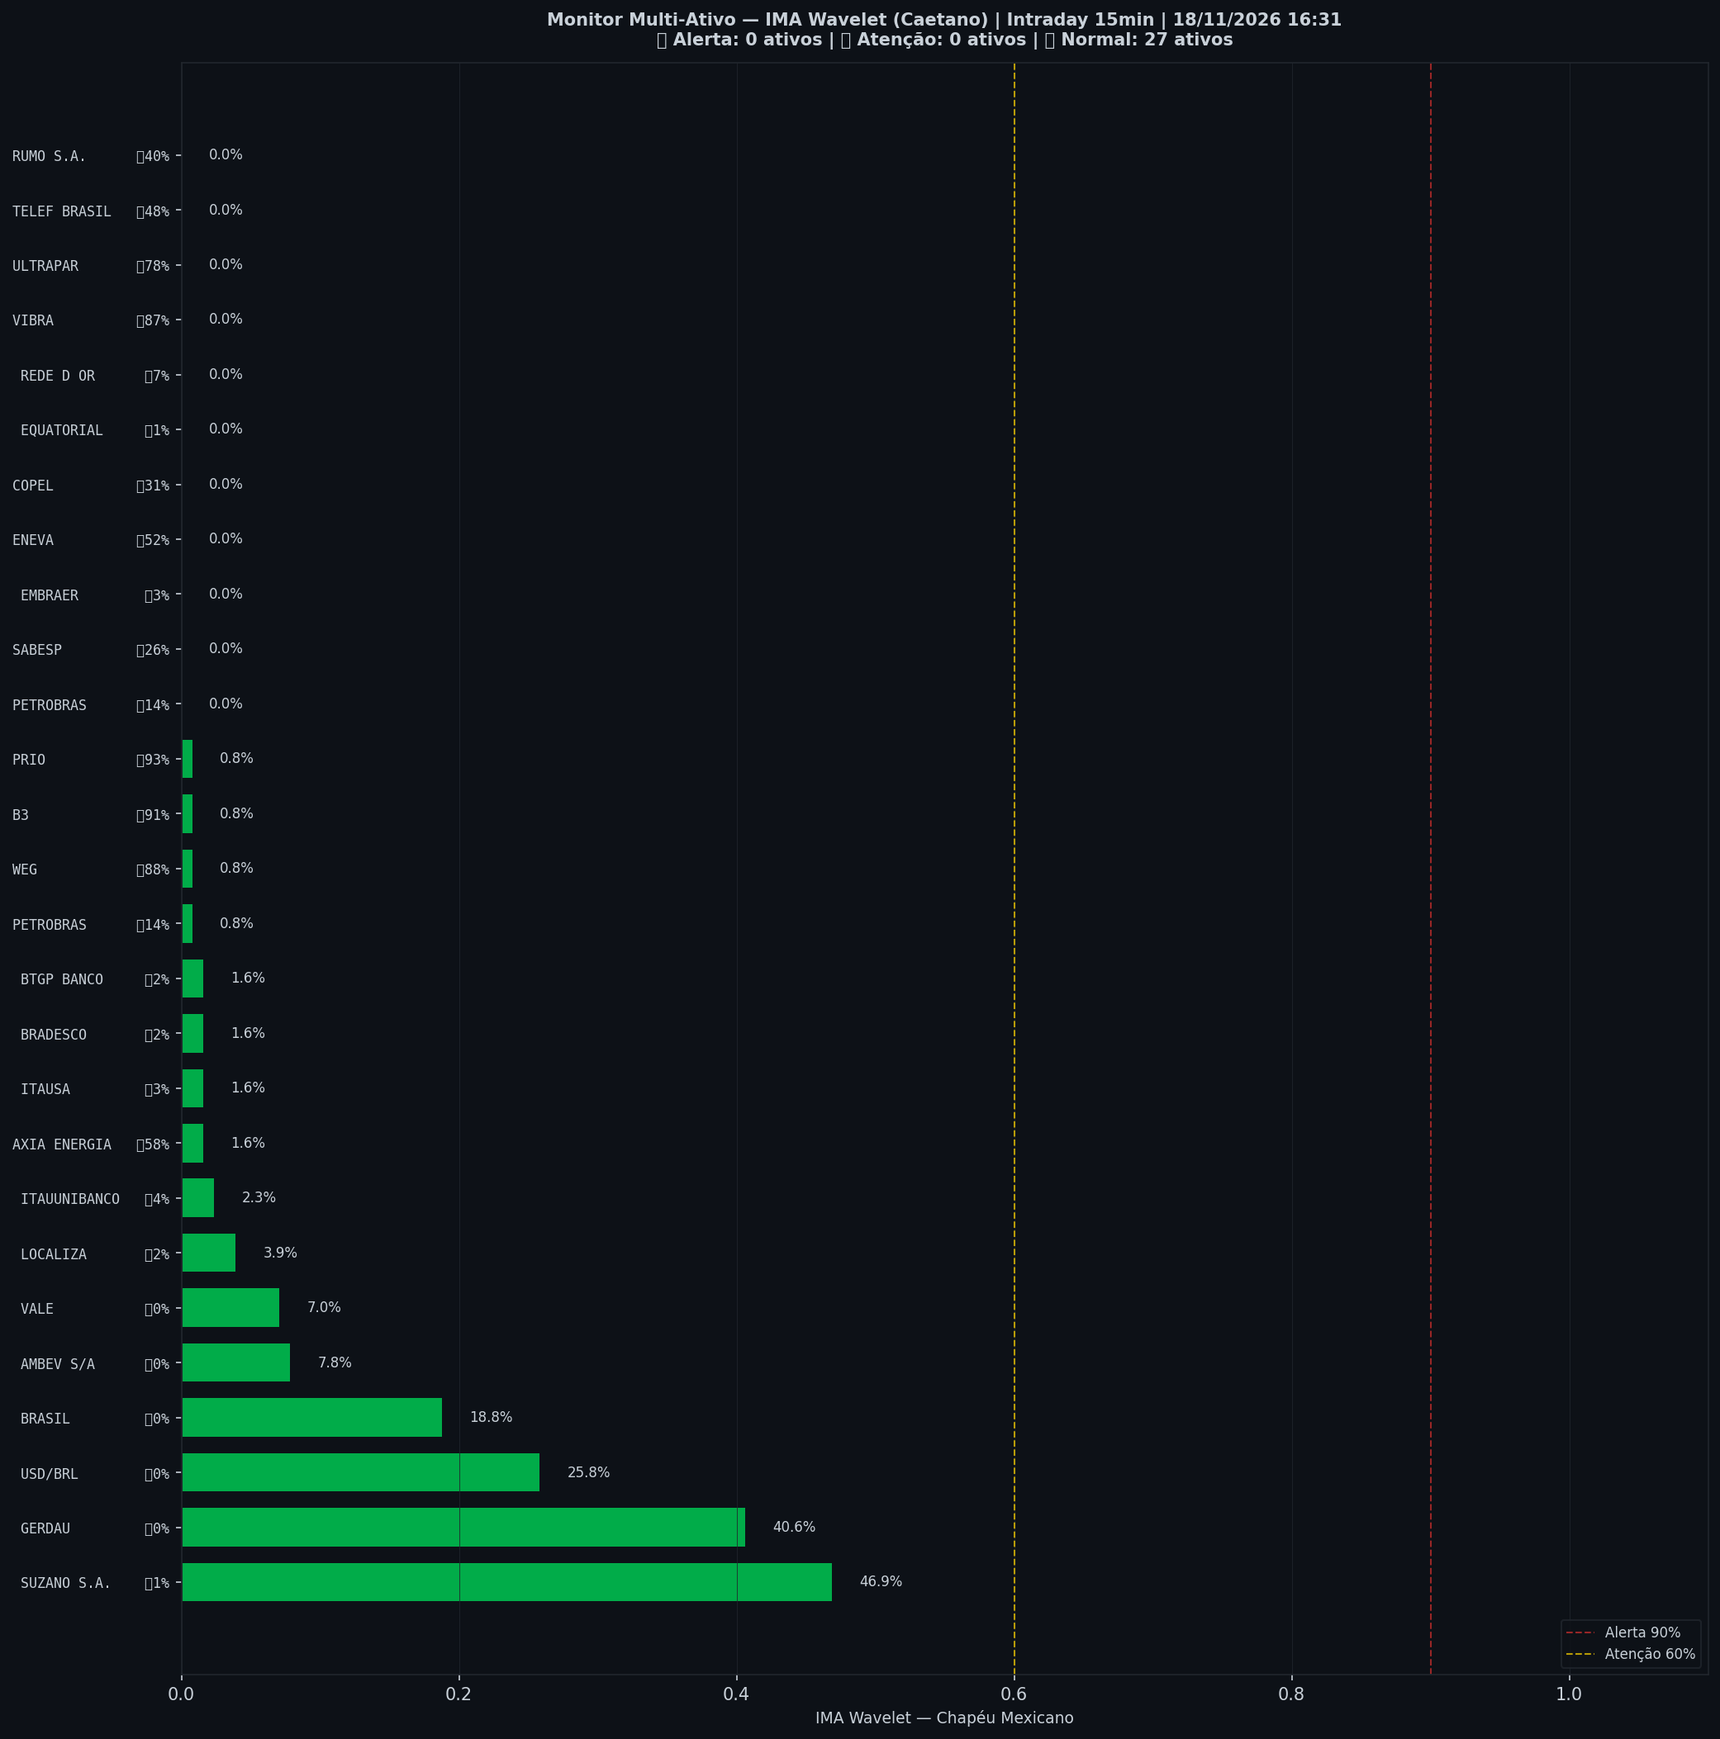
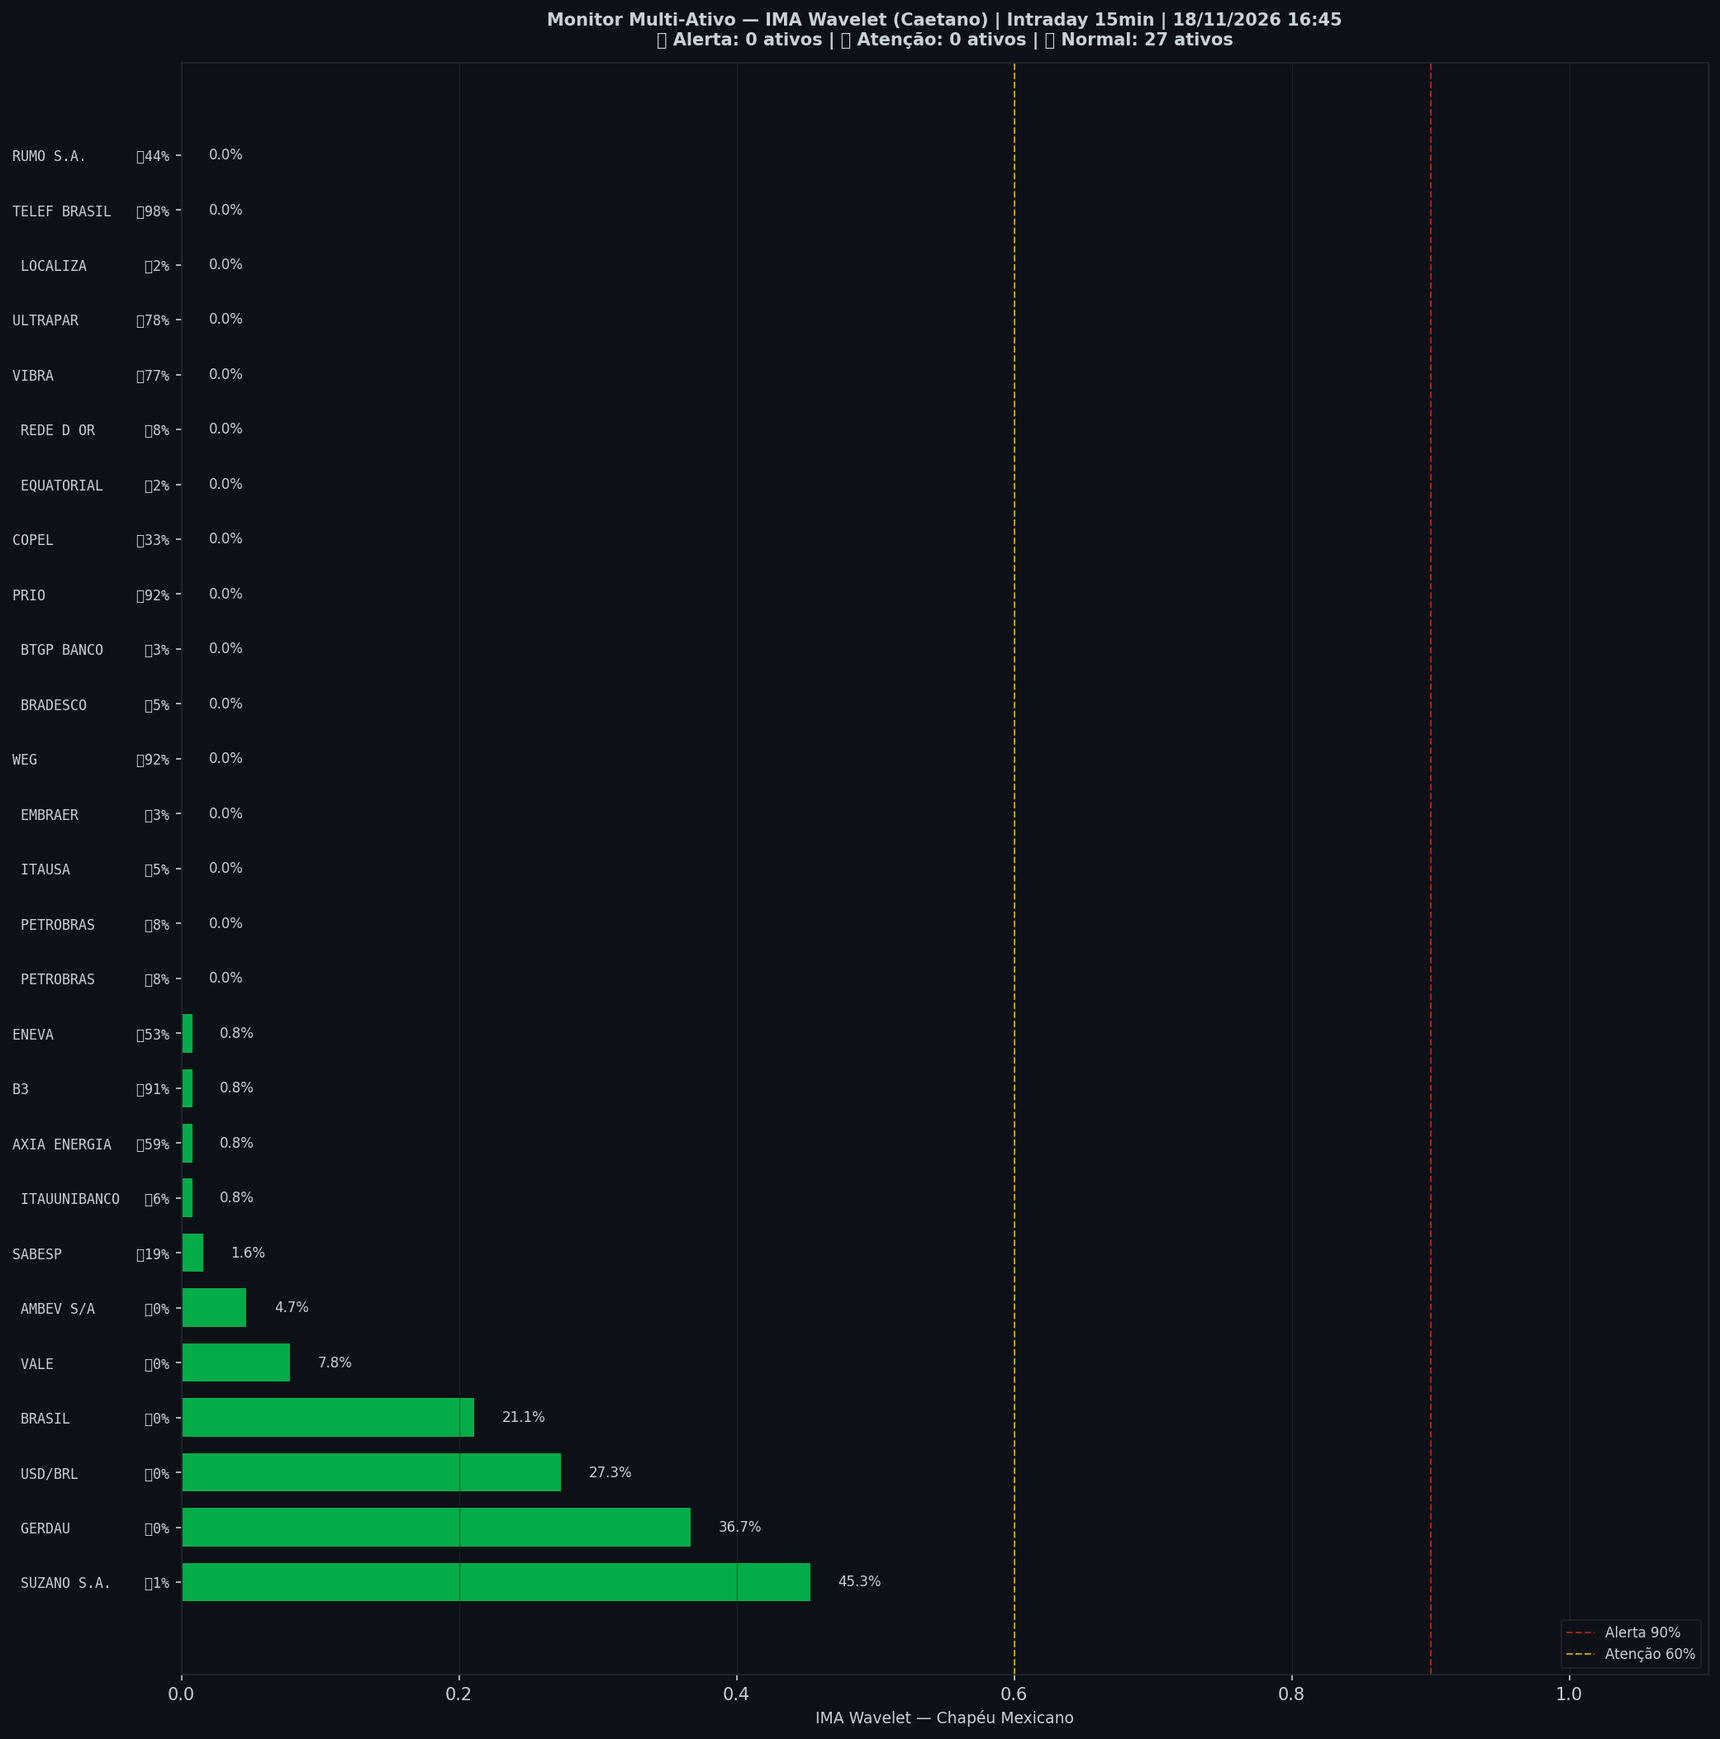
🤖 Auto: Sinal 18/11/2026 16:46

diff --git a/content/intraday/2026-11-18.md b/content/intraday/2026-11-18.md
@@ -1,11 +1,11 @@
 ---
-title: "🟢 Intraday 18/11/2026 16:15 BRT — VERDE"
+title: "🟢 Intraday 18/11/2026 16:30 BRT — VERDE"
 date: 2026-11-18
 tags: [intraday]
 ---
 
-> [!success] Onde o mercado está agora (18/11 16:15, candles de 15 min): **🟢 Calmo**
-> `Pânico ◀────────●────────────▶ Euforia`
+> [!success] Onde o mercado está agora (18/11 16:30, candles de 15 min): **🟢 Calmo**
+> `Pânico ◀───────●─────────────▶ Euforia`
 >
 > O Ibovespa está dentro da sua faixa normal, sem excesso para cima nem para baixo.
 > No gráfico diário: 🌱 Fundo se desfazendo.
@@ -20,7 +20,7 @@ tags: [intraday]
 > | 📍 **Sinais** | hoje: nenhum sinal | [abrir](sinais-topo-fundo/) |
 > | 🧪 **Placar ao vivo** | 1 operação(ões), 0 com lucro, soma -0,8% | [abrir](operacoes/) |
 
-> [!success] IMA Intraday · 15 min (18/11 16:15): 🟢 **VERDE** — Risco 2% · ＝ +0 p.p. vs leitura anterior
+> [!success] IMA Intraday · 15 min (18/11 16:30): 🟢 **VERDE** — Risco 1% · ▼ -2 p.p. vs leitura anterior
 > `░░░░░░░░░░░░░░░░░░░░`
 > Preço na faixa normal em torno da tendência.
 
@@ -32,13 +32,13 @@ tags: [intraday]
 >
 > *Leitura educacional baseada em 26 anos de dados, não recomendação. [Como usar](../metodologia/crise#3-como-usar-na-prática).*
 
-| Indicador — IMA Intraday · 15 min (18/11 16:15) | Valor |
+| Indicador — IMA Intraday · 15 min (18/11 16:30) | Valor |
 |---|---|
-| 🔴 ζ Topo — preço esticado acima da tendência | **2%** |
-| 🔵 ζ Fundo — preço esticado abaixo da tendência | 23% |
+| 🔴 ζ Topo — preço esticado acima da tendência | **1%** |
+| 🔵 ζ Fundo — preço esticado abaixo da tendência | 30% |
 | 🫧 LPPL bolha — alta super-exponencial (risco de crash) | 0% |
 | 🫧 LPPL antibolha — queda super-exponencial (risco de repique) | 0% |
-| 📊 Ibovespa | 167.598 pts |
+| 📊 Ibovespa | 167.507 pts |
 
 ![Gráfico do sinal](../graficos/sinal_intraday.png)
 
@@ -46,6 +46,7 @@ tags: [intraday]
 
 | Data | Zona | Evento | Risco | ζ Topo | ζ Fundo | LPPL |
 |---|---|---|---|---|---|---|
+| 2026-11-18 16:30 | 🟢 VERDE |  | **1%** | 1% | 30% | 0% |
 | 2026-11-18 16:15 | 🟢 VERDE |  | **2%** | 2% | 23% | 0% |
 | 2026-11-18 16:00 | 🟢 VERDE |  | **2%** | 2% | 16% | 0% |
 | 2026-11-18 15:45 | 🟢 VERDE |  | **2%** | 2% | 11% | 0% |
@@ -75,52 +76,51 @@ tags: [intraday]
 | 2026-11-17 18:00 | 🟢 VERDE |  | **0%** | 0% | 0% | 0% |
 | 2026-11-17 17:45 | 🟢 VERDE |  | **0%** | 0% | 3% | 0% |
 | 2026-11-17 17:30 | 🟢 VERDE |  | **0%** | 0% | 9% | 0% |
-| 2026-11-17 17:15 | 🟢 VERDE |  | **0%** | 0% | 15% | 0% |
 
 <small>Destaques: 🟡 ≥ 60% · 🔴 ≥ 90% (Risco e ζ Topo) · 🔵 ≥ 60% · 🔪 ≥ 90% (ζ Fundo) · 🫧 ≥ 30% · 🫧🔴 ≥ 50% (LPPL)</small>
 
 ## Monitor Multi-Ativo
 
-**0% dos ativos em tensão** (0🔴 0🟡) · **5 com ζ Fundo alto** — quanto mais ativos disparam juntos, mais confiável o sinal.
+**0% dos ativos em tensão** (0🔴 0🟡) · **6 com ζ Fundo alto** — quanto mais ativos disparam juntos, mais confiável o sinal.
 
 > [!danger] Em destaque no multi-ativo
-> 🔪 **PRIO** ζ Fundo 93% · 🔪 **B3** ζ Fundo 91% · 🔵 **WEG** ζ Fundo 88% · 🔵 **VIBRA** ζ Fundo 87% · 🔵 **ULTRAPAR** ζ Fundo 78%
+> 🔪 **TELEF BRASIL** ζ Fundo 98% · 🔪 **WEG** ζ Fundo 92% · 🔪 **PRIO** ζ Fundo 92% · 🔪 **B3** ζ Fundo 91% · 🔵 **ULTRAPAR** ζ Fundo 78% · 🔵 **VIBRA** ζ Fundo 77%
 
 | Zona | Ativo | Setor | ζ Topo | ζ Fundo |
 |---|---|---|---|---|
-| 🟢 | **PRIO** | Petróleo | 0.8% | 🔪 **93.0%** |
-| 🟢 | **B3** | Financeiro | 0.8% | 🔪 **91.4%** |
-| 🟢 | **WEG** | Industrial | 0.8% | 🔵 **87.5%** |
-| 🟢 | **VIBRA** | Energia | 0.0% | 🔵 **86.7%** |
+| 🟢 | **TELEF BRASIL** | Outros | 0.0% | 🔪 **98.4%** |
+| 🟢 | **WEG** | Industrial | 0.0% | 🔪 **92.2%** |
+| 🟢 | **PRIO** | Petróleo | 0.0% | 🔪 **92.2%** |
+| 🟢 | **B3** | Financeiro | 0.8% | 🔪 **90.6%** |
 | 🟢 | **ULTRAPAR** | Outros | 0.0% | 🔵 **78.1%** |
-| 🟢 | **AXIA ENERGIA** | Energia | 1.6% | 57.8% |
-| 🟢 | **ENEVA** | Energia | 0.0% | 51.6% |
-| 🟢 | **TELEF BRASIL** | Outros | 0.0% | 47.7% |
-| 🟢 | **SUZANO S.A.** | Papel/Celulose | 46.9% | 0.8% |
-| 🟢 | **GERDAU** | Siderurgia | 40.6% | 0.0% |
-| 🟢 | **RUMO S.A.** | Outros | 0.0% | 39.8% |
-| 🟢 | **COPEL** | Energia | 0.0% | 31.2% |
-| 🟢 | **SABESP** | Saneamento | 0.0% | 25.8% |
-| 🟢 | **USD/BRL** | Câmbio | 25.8% | 0.0% |
-| 🟢 | **BRASIL** | Financeiro | 18.8% | 0.0% |
-| 🟢 | **PETROBRAS** | Petróleo | 0.0% | 14.1% |
-| 🟢 | **PETROBRAS** | Petróleo | 0.8% | 14.1% |
-| 🟢 | **AMBEV S/A** | Consumo | 7.8% | 0.0% |
-| 🟢 | **VALE** | Mineração | 7.0% | 0.0% |
-| 🟢 | **REDE D OR** | Saúde | 0.0% | 7.0% |
-| 🟢 | **ITAUUNIBANCO** | Financeiro | 2.3% | 3.9% |
-| 🟢 | **LOCALIZA** | Aluguel | 3.9% | 1.6% |
-| 🟢 | **ITAUSA** | Financeiro | 1.6% | 3.1% |
+| 🟢 | **VIBRA** | Energia | 0.0% | 🔵 **76.6%** |
+| 🟢 | **AXIA ENERGIA** | Energia | 0.8% | 59.4% |
+| 🟢 | **ENEVA** | Energia | 0.8% | 53.1% |
+| 🟢 | **SUZANO S.A.** | Papel/Celulose | 45.3% | 0.8% |
+| 🟢 | **RUMO S.A.** | Outros | 0.0% | 43.8% |
+| 🟢 | **GERDAU** | Siderurgia | 36.7% | 0.0% |
+| 🟢 | **COPEL** | Energia | 0.0% | 32.8% |
+| 🟢 | **USD/BRL** | Câmbio | 27.3% | 0.0% |
+| 🟢 | **BRASIL** | Financeiro | 21.1% | 0.0% |
+| 🟢 | **SABESP** | Saneamento | 1.6% | 18.8% |
+| 🟢 | **VALE** | Mineração | 7.8% | 0.0% |
+| 🟢 | **PETROBRAS** | Petróleo | 0.0% | 7.8% |
+| 🟢 | **PETROBRAS** | Petróleo | 0.0% | 7.8% |
+| 🟢 | **REDE D OR** | Saúde | 0.0% | 7.8% |
+| 🟢 | **ITAUUNIBANCO** | Financeiro | 0.8% | 6.2% |
+| 🟢 | **ITAUSA** | Financeiro | 0.0% | 5.5% |
+| 🟢 | **BRADESCO** | Financeiro | 0.0% | 5.5% |
+| 🟢 | **AMBEV S/A** | Consumo | 4.7% | 0.0% |
 | 🟢 | **EMBRAER** | Outros | 0.0% | 3.1% |
-| 🟢 | **BRADESCO** | Financeiro | 1.6% | 1.6% |
-| 🟢 | **BTGP BANCO** | Financeiro | 1.6% | 1.6% |
-| 🟢 | **EQUATORIAL** | Energia | 0.0% | 0.8% |
+| 🟢 | **BTGP BANCO** | Financeiro | 0.0% | 3.1% |
+| 🟢 | **EQUATORIAL** | Energia | 0.0% | 2.3% |
+| 🟢 | **LOCALIZA** | Aluguel | 0.0% | 2.3% |
 
 <small>Destaques: 🟡 ≥ 60% · 🔴 ≥ 90% (Risco e ζ Topo) · 🔵 ≥ 60% · 🔪 ≥ 90% (ζ Fundo) · 🫧 ≥ 30% · 🫧🔴 ≥ 50% (LPPL)</small>
 
 ![Monitor multi-ativo](../graficos/multi_intraday.png)
 
-*Página atualizada em 18/11/2026 16:31 BRT (leitura da barra de 2026-11-18 16:15 BRT).*
+*Página atualizada em 18/11/2026 16:45 BRT (leitura da barra de 2026-11-18 16:30 BRT).*
 
 > [!warning] O que este indicador não faz
 > Medido em 5 anos de Ibovespa, o ζ **não antecipa** topos nem fundos: a capacidade de separar o que sobe do que cai ficou em 0,49–0,52, e 0,50 é moeda jogada ao ar. Ele descreve o estado de agora; não é aviso do que vem. As zonas verde/amarelo/vermelho continuam na página como descrição desse estado — **não as use como sinal de entrada ou saída**.

diff --git a/content/index.md b/content/index.md
@@ -6,10 +6,10 @@ tags: [home]
 
 **As ondas do mercado, explicadas.** Leitura do Ibovespa com estatística de 26 anos, baseada no trabalho de pesquisadores e traders reconhecidos e adaptada por Jarbas Daniel da Costa.
 
-*Última atualização: 18/11/2026 16:31 BRT · Intraday 15min*
+*Última atualização: 18/11/2026 16:45 BRT · Intraday 15min*
 
-> [!success] Onde o mercado está agora (18/11 16:15, candles de 15 min): **🟢 Calmo**
-> `Pânico ◀────────●────────────▶ Euforia`
+> [!success] Onde o mercado está agora (18/11 16:30, candles de 15 min): **🟢 Calmo**
+> `Pânico ◀───────●─────────────▶ Euforia`
 >
 > O Ibovespa está dentro da sua faixa normal, sem excesso para cima nem para baixo.
 > No gráfico diário: 🌱 Fundo se desfazendo.
@@ -20,7 +20,7 @@ tags: [home]
 
 | Módulo | Agora | |
 |---|---|---|
-| 🌊 **Sinal IMA** | 🟢 VERDE · 🟢 calmo · ζ Topo 2% | [relatório](intraday/2026-11-18) |
+| 🌊 **Sinal IMA** | 🟢 VERDE · 🟢 calmo · ζ Topo 1% | [relatório](intraday/2026-11-18) |
 | 📈 **Tendência MME9** | Diário — fora<br>Semanal — fora | [abrir](operacoes/tendencia) |
 | 🎯 **Entradas do método** | ⏳ aguardando: Diário · Semáforo N3 após ζ Fundo | [abrir](operacoes/entradas) |
 | 📍 **Sinais** | hoje: nenhum sinal | [abrir](sinais-topo-fundo/) |
@@ -44,18 +44,18 @@ tags: [home]
 > *Leitura educacional baseada em 26 anos de dados, não recomendação. [Como usar](metodologia/crise#3-como-usar-na-prática).*
 
 > [!info]- 🌊 Detalhes do Sinal IMA (indicadores e últimos 7 pregões)
-> > [!success] IMA Intraday · 15 min (18/11 16:15): 🟢 **VERDE** — Risco 2% · ＝ +0 p.p. vs leitura anterior
+> > [!success] IMA Intraday · 15 min (18/11 16:30): 🟢 **VERDE** — Risco 1% · ▼ -2 p.p. vs leitura anterior
 > > `░░░░░░░░░░░░░░░░░░░░`
 > > Preço na faixa normal em torno da tendência.
 >
 >
-> | Indicador — IMA Intraday · 15 min (18/11 16:15) | Valor |
+> | Indicador — IMA Intraday · 15 min (18/11 16:30) | Valor |
 > |---|---|
-> | 🔴 ζ Topo — preço esticado acima da tendência | **2%** |
-> | 🔵 ζ Fundo — preço esticado abaixo da tendência | 23% |
+> | 🔴 ζ Topo — preço esticado acima da tendência | **1%** |
+> | 🔵 ζ Fundo — preço esticado abaixo da tendência | 30% |
 > | 🫧 LPPL bolha — alta super-exponencial (risco de crash) | 0% |
 > | 🫧 LPPL antibolha — queda super-exponencial (risco de repique) | 0% |
-> | 📊 Ibovespa | 167.598 pts |
+> | 📊 Ibovespa | 167.507 pts |
 >
 > **Multi-ativo:** 0% em tensão (0🔴 0🟡 de 27 ativos)
 >
@@ -63,7 +63,7 @@ tags: [home]
 >
 > | Data | Zona | Risco | ζ Topo | ζ Fundo | LPPL |
 > |---|---|---|---|---|---|
-> | [18/11/2026](intraday/2026-11-18) | 🟢 VERDE | **2%** | 2% | 23% | 0% |
+> | [18/11/2026](intraday/2026-11-18) | 🟢 VERDE | **1%** | 1% | 30% | 0% |
 > | [17/11/2026](intraday/2026-11-17) | 🟢 VERDE | **0%** | 0% | 0% | 0% |
 >
 > <small>Destaques: 🟡 ≥ 60% · 🔴 ≥ 90% (Risco e ζ Topo) · 🔵 ≥ 60% · 🔪 ≥ 90% (ζ Fundo) · 🫧 ≥ 30% · 🫧🔴 ≥ 50% (LPPL)</small>

diff --git a/content/operacoes/entradas.md b/content/operacoes/entradas.md
@@ -31,7 +31,7 @@ description: "Compra depois de um sinal de fundo: Nadaraya no diário, semáforo
 > | Diário · Semáforo N3 após ζ Fundo | 07/07/26 a 172.021 | 10/08/26 a 172.021 | **+0,0%** | stop no preço de entrada |
 > | H4 · Semáforo N2 | 12/06/26 14h a 171.134 | 15/06/26 14h a 171.134 | **+0,0%** | stop no preço de entrada |
 >
-> <small>Atualizado 17/11 19:00 · checado no pregão às 16:30. Nota: ✅ passou no teste fora da amostra (walk-forward 2008–2026) · 🧪 em teste (H4, com aviso no Telegram) ou em observação (ζ, sem aviso) · 🧪 na tabela = operação do teste ao vivo.</small>
+> <small>Atualizado 17/11 19:00 · checado no pregão às 16:45. Nota: ✅ passou no teste fora da amostra (walk-forward 2008–2026) · 🧪 em teste (H4, com aviso no Telegram) ou em observação (ζ, sem aviso) · 🧪 na tabela = operação do teste ao vivo.</small>
 >
 > *Regras: depois de um sinal de fundo, o Diário entra quando o Nadaraya vira para cima; o Semanal e o H4 entram quando um fundo do semáforo fica fixo. Stop e saída de cada regra na [metodologia](metodologia/regras-de-operacao#entradas-do-método). Nenhuma regra de venda passou no teste. Os números do histórico têm viés de escolha (overfitting); o placar ao vivo é o que vale. Leitura educacional do método, não recomendação.*
 

diff --git a/content/integridade/index.md b/content/integridade/index.md
@@ -5,7 +5,7 @@ description: "O que foi conferido, contra qual fonte e quando — medido na hora
 tags: [integridade]
 ---
 
-*Pregão conferido: **17/11/2026**, com 61 tabelas no acervo · página gerada em 18/11/2026 16:31*
+*Pregão conferido: **17/11/2026**, com 61 tabelas no acervo · página gerada em 18/11/2026 16:45*
 
 O pregão conferido é o último **fechado e arquivado inteiro**, não o de hoje: enquanto o dia corre, só algumas tabelas estão gravadas, e conferir um dia pela metade produziria alarme falso.
 
@@ -22,7 +22,7 @@ Esta página não declara que o site está correto. Ela **mede** e escreve o res
 | Tabelas com conteúdo fora da curva | nenhuma |
 | Páginas publicadas | 353 |
 | Conferências cruzadas das páginas | 71 certas, nenhuma divergência |
-| Página escrita mais recentemente | 18/11 16:31 |
+| Página escrita mais recentemente | 18/11 16:45 |
 | Páginas sem data no cabeçalho | 8 — cegas para a conferência de dado |
 
 ## 1 · Acervo do boletim diário
@@ -127,7 +127,7 @@ Pregão mais recente declarado por alguma página: **18/11/2026**.
 |---|---|---:|
 | `diario/index.md` | 16/11 14:43 | 2.1 |
 | `intraday/index.md` | 16/11 14:43 | 2.1 |
-| `por-onde-comecar.md` | 16/11 15:20 | 2.0 |
+| `por-onde-comecar.md` | 16/11 15:20 | 2.1 |
 
 ### As páginas concordam entre si?
 

diff --git a/content/historico.md b/content/historico.md
@@ -5,7 +5,7 @@ tags: [historico]
 
 # 📜 Histórico de leituras (v5)
 
-**2.473 leituras** desde 2026-07-03. Na página ficam os últimos 3 dias leitura por leitura e o resumo de cada dia anterior; o registro inteiro está no arquivo para baixar.
+**2.474 leituras** desde 2026-07-03. Na página ficam os últimos 3 dias leitura por leitura e o resumo de cada dia anterior; o registro inteiro está no arquivo para baixar.
 
 [**Baixar o histórico completo**](historico-completo.csv) (108 KB · abre no Excel e no LibreOffice)
 
@@ -16,6 +16,7 @@ tags: [historico]
 
 | Data | Modo | Zona | Risco | IMA | LPPL |
 |---|---|---|---|---|---|
+| 2026-11-18 16:30 | intraday | 🟢 VERDE | 1% | 1% | 0% |
 | 2026-11-18 16:15 | intraday | 🟢 VERDE | 2% | 2% | 0% |
 | 2026-11-18 16:00 | intraday | 🟢 VERDE | 2% | 2% | 0% |
 | 2026-11-18 15:45 | intraday | 🟢 VERDE | 2% | 2% | 0% |

diff --git a/content/operacoes/ranking.md b/content/operacoes/ranking.md
@@ -5,7 +5,7 @@ tags: [operacoes]
 description: "As regras de compra do site ordenadas pelo resultado, com treino, teste e placar ao vivo"
 ---
 
-*Atualizado 18/11/2026 16:31 · histórico simulado com as regras congeladas em 23/10/2026 + placar ao vivo.*
+*Atualizado 18/11/2026 16:45 · histórico simulado com as regras congeladas em 23/10/2026 + placar ao vivo.*
 
 As regras de compra do site, **da que mais rendeu para a que menos rendeu**. O resultado é por operação, no índice à vista, sem custos e sem juros compostos (a soma é só a soma das operações). **Treino** = entradas de 2001 a 2013 e **teste** = 2014 em diante: uma regra só é confiável se ganhou nos dois. O único resultado sem nenhum ajuste ao histórico é o **placar ao vivo**.
 

diff --git a/content/linha-do-tempo/index.md b/content/linha-do-tempo/index.md
@@ -5,7 +5,7 @@ description: "Todo sinal, ordem, stop e aviso do Pêndulo de Mercado, do mais re
 tags: [eventos]
 ---
 
-*Atualizada 18/11/2026 16:31 BRT · a cada 15 min no pregão e às 19h.*
+*Atualizada 18/11/2026 16:45 BRT · a cada 15 min no pregão e às 19h.*
 
 Tudo o que o sistema fez ou detectou, **do mais recente para o mais antigo**: sinais de topo e fundo, ordens de compra e de venda armadas, compras, vendas, stops, avisos de 🚨 preço perto do nível e mudanças do Sinal IMA. Os **últimos 7 dias** ficam abertos; o resto, por **ano → mês → dia**.
 

diff --git a/content/avisos/index.md b/content/avisos/index.md
@@ -2,7 +2,7 @@
 title: "⚠ Avisos: o que saber antes de usar os números"
 ---
 
-*Gerado em 18/11/2026 16:31*
+*Gerado em 18/11/2026 16:45*
 
 Este site publica muitos números, e cada um tem uma limitação que importa na hora de
 decidir. As limitações estão escritas nas próprias páginas, mas quem chega direto numa
